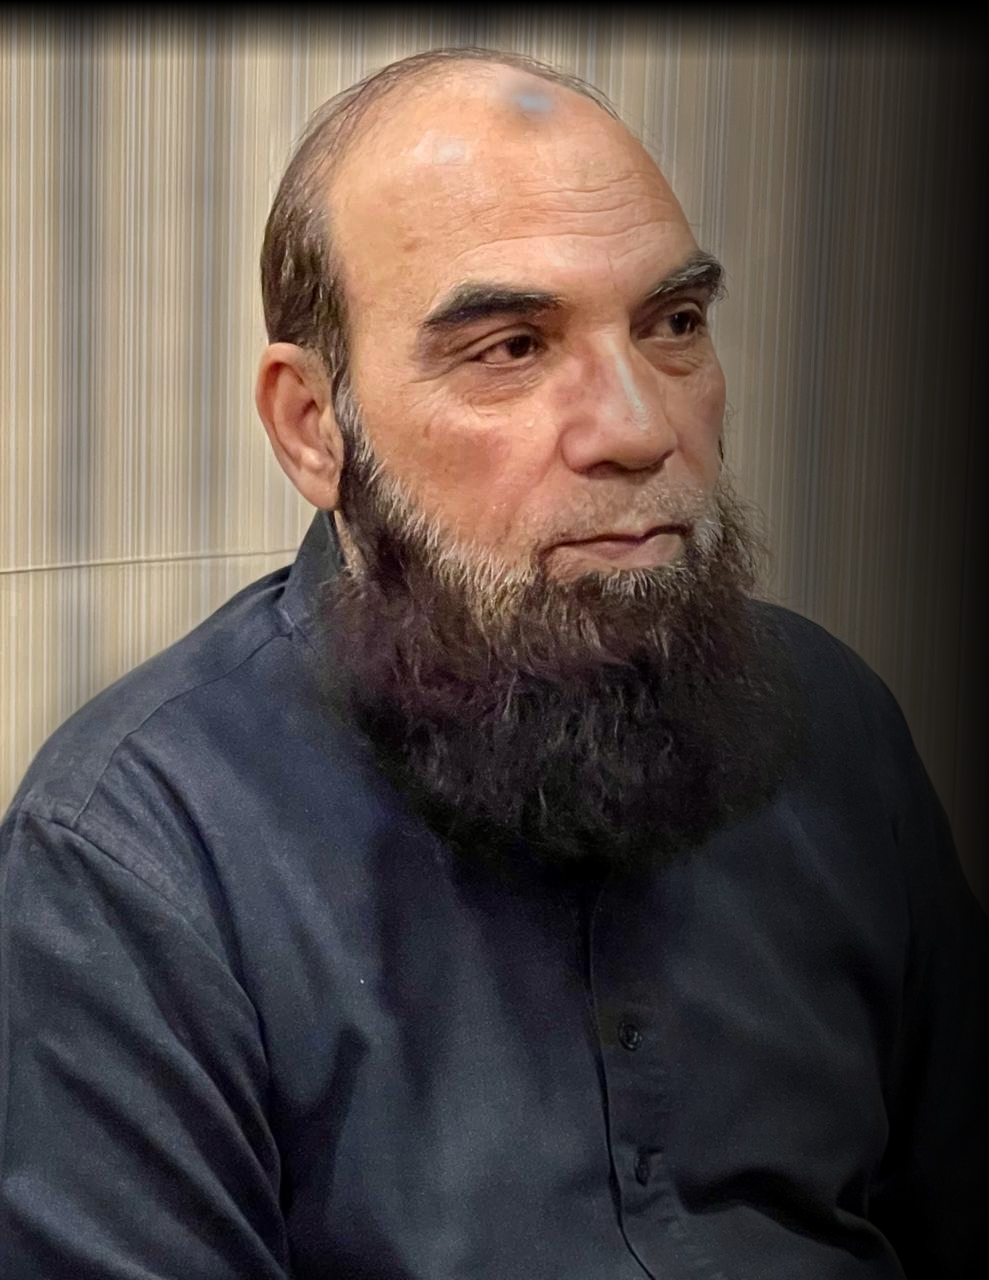
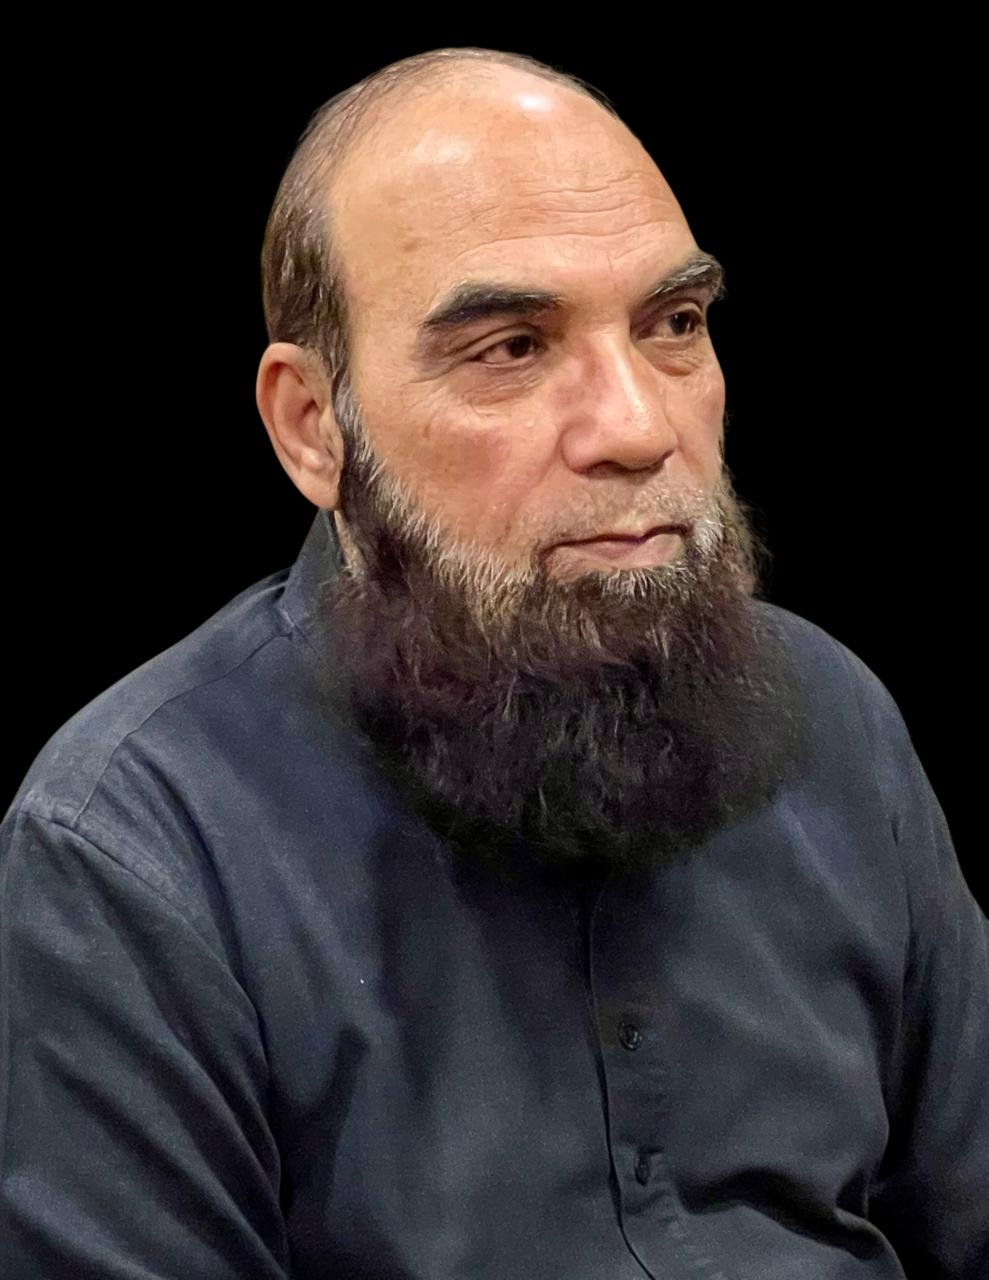
CEO: use clean Photoroom cutout, simple edge fades only

diff --git a/artifacts/science-centre/src/pages/about.tsx b/artifacts/science-centre/src/pages/about.tsx
@@ -113,11 +113,13 @@ function CEOPanel() {
               src={img("/images/ceo.png")}
               alt="Najam Iqbal — CEO Science Centre"
               className="w-full h-full object-cover object-top"
-              style={{ filter: "contrast(1.05) brightness(0.88)" }}
             />
-            {/* Extra left-side overlay to kill wall stripes */}
+            {/* Right edge fade into black */}
             <div className="absolute inset-0 pointer-events-none"
-              style={{ background: "linear-gradient(to right, rgba(10,10,10,0.45) 0%, rgba(10,10,10,0.1) 40%, transparent 65%)" }} />
+              style={{ background: "linear-gradient(to right, transparent 60%, #0a0a0a 100%)" }} />
+            {/* Bottom edge fade */}
+            <div className="absolute inset-0 pointer-events-none"
+              style={{ background: "linear-gradient(to bottom, transparent 75%, #0a0a0a 100%)" }} />
           </div>
 
           {/* Bleed right + bottom into black */}
